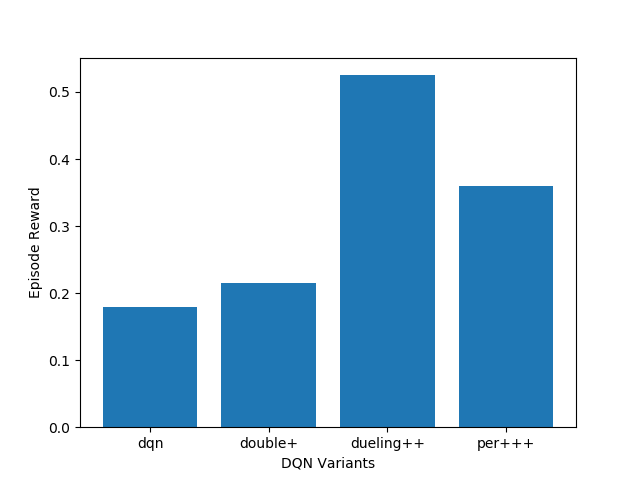
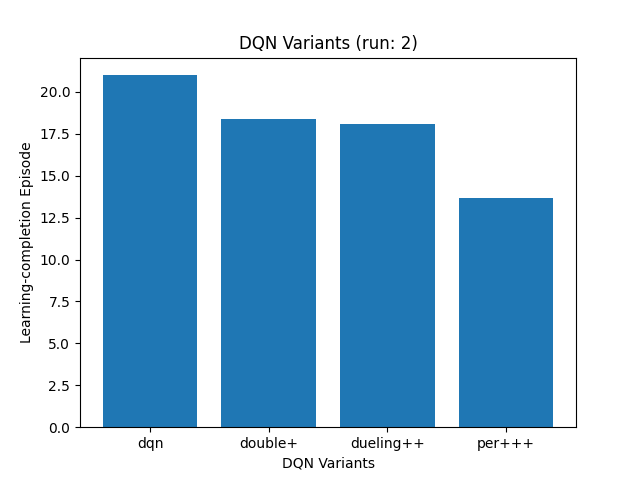
...

diff --git a/chapter_10/compare_all_dqns.py b/chapter_10/compare_all_dqns.py
@@ -9,7 +9,7 @@ from chapter_10.per_dueling_double_dqn import PerDuelingDoubleDqnAgent
 from matplotlib import pyplot as plt
 import numpy as np
 
-max_runs = 200
+max_runs = 10
 
 def main():
     performance = np.zeros((4, max_runs))
@@ -17,24 +17,24 @@ def main():
         print("######### run:{0} #########".format(run))
         env = gym.make('CartPole-v1')
         dqn_agent = DqnAgent(env)
-        dqn_agent.learn()
+        dqn_last_episode = dqn_agent.learn()
 
         env = gym.make('CartPole-v1')
         double_dqn_agent = DoubleDqnAgent(env)
-        double_dqn_agent.learn()
+        double_dqn_last_episode = double_dqn_agent.learn()
 
         env = gym.make('CartPole-v1')
         dueling_double_dqn_agent = DuelingDoubleDqnAgent(env)
-        dueling_double_dqn_agent.learn()
+        dueling_double_dqn_last_episode = dueling_double_dqn_agent.learn()
 
         env = gym.make('CartPole-v1')
         per_dueling_double_dqn_agent = PerDuelingDoubleDqnAgent(env)
-        per_dueling_double_dqn_agent.learn()
+        per_dueling_double_dqn_last_episode = per_dueling_double_dqn_agent.learn()
 
-        performance[0, run] = dqn_agent.last_episode
-        performance[1, run] = double_dqn_agent.last_episode
-        performance[2, run] = dueling_double_dqn_agent.last_episode
-        performance[3, run] = per_dueling_double_dqn_agent.last_episode
+        performance[0, run] = dqn_last_episode
+        performance[1, run] = double_dqn_last_episode
+        performance[2, run] = dueling_double_dqn_last_episode
+        performance[3, run] = per_dueling_double_dqn_last_episode
 
         mean_performance = performance.mean(axis=1)
 
@@ -43,7 +43,7 @@ def main():
             mean_performance
         )
         plt.xlabel('DQN Variants')
-        plt.ylabel('Episode Reward')
+        plt.ylabel('Learning-completion Episode')
         plt.title('DQN Variants (run: {0})'.format(run))
         plt.savefig("images/comparison_all_dqns.png")
         plt.close()

diff --git a/chapter_10/dqn.py b/chapter_10/dqn.py
@@ -115,7 +115,8 @@ class DqnAgent:
         episode_rewards_last_10 = deque(maxlen=10)
         epsilon = args.epsilon
 
-        for ep in range(args.max_episodes):
+        ep = 1
+        while ep <= args.max_episodes:
             state = self.env.reset()
 
             episode_reward = 0
@@ -144,8 +145,11 @@ class DqnAgent:
             self.write_performance(ep, epsilon, episode_reward, avg_episode_reward, episode_loss)
 
             if avg_episode_reward >= args.episode_reward_threshold:
-                self.last_episode = ep
                 break
+
+            ep += 1
+
+        return ep
 
     def write_performance(self, ep, epsilon, episode_reward, avg_episode_reward, episode_loss):
         print(
@@ -179,7 +183,9 @@ def make_video(env, agent):
 def main():
     env = gym.make('CartPole-v1')
     dqn_agent = DqnAgent(env)
-    dqn_agent.learn()
+    last_episode = dqn_agent.learn()
+    print("Learning-completion Episode: {0}".format(last_episode))
+
     make_video(env, dqn_agent)
 
 

diff --git a/chapter_10/per_dueling_double_dqn.py b/chapter_10/per_dueling_double_dqn.py
@@ -156,7 +156,9 @@ def prioritized_experience_memory_test():
 def main():
     env = gym.make('CartPole-v1')
     per_dueling_double_dqn_agent = PerDuelingDoubleDqnAgent(env)
-    per_dueling_double_dqn_agent.learn()
+    last_episode = per_dueling_double_dqn_agent.learn()
+    print("Learning-completion Episode: {0}".format(last_episode))
+
     make_video(env, per_dueling_double_dqn_agent)
 
 

diff --git a/chapter_10/dueling_double_dqn.py b/chapter_10/dueling_double_dqn.py
@@ -54,7 +54,9 @@ class DuelingDoubleDqnAgent(DoubleDqnAgent):
 def main():
     env = gym.make('CartPole-v1')
     dueling_double_dqn_agent = DuelingDoubleDqnAgent(env)
-    dueling_double_dqn_agent.learn()
+    last_episode = dueling_double_dqn_agent.learn()
+    print("Learning-completion Episode: {0}".format(last_episode))
+
     make_video(env, dueling_double_dqn_agent)
 
 

diff --git a/chapter_10/double_dqn.py b/chapter_10/double_dqn.py
@@ -33,7 +33,9 @@ class DoubleDqnAgent(DqnAgent):
 def main():
     env = gym.make('CartPole-v1')
     double_dqn_agent = DoubleDqnAgent(env)
-    double_dqn_agent.learn()
+    last_episode = double_dqn_agent.learn()
+    print("Learning-completion Episode: {0}".format(last_episode))
+
     make_video(env, double_dqn_agent)
 
 
